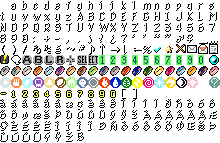
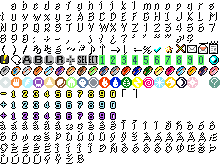
Changed damage change to animation, added heal & xp

diff --git a/PMDMMOc/src/com/darkxell/client/renderers/TextRenderer.java b/PMDMMOc/src/com/darkxell/client/renderers/TextRenderer.java
@@ -181,17 +181,39 @@ public class TextRenderer
 		type_15("<type-15>", 15, 7, 11),
 		type_16("<type-16>", 16, 7, 11),
 		type_17("<type-17>", 17, 7, 11),
-		minusd(null, 0, 8, 7),
-		num1d(null, 1, 8, 7),
-		num2d(null, 2, 8, 7),
-		num3d(null, 3, 8, 7),
-		num4d(null, 4, 8, 7),
-		num5d(null, 5, 8, 7),
-		num6d(null, 6, 8, 7),
-		num7d(null, 7, 8, 7),
-		num8d(null, 8, 8, 7),
-		num9d(null, 9, 8, 7),
-		num0d(null, 10, 8, 7),
+		minusd("<-d>", 0, 8, 7),
+		num1d("<1d>", 1, 8, 7),
+		num2d("<2d>", 2, 8, 7),
+		num3d("<3d>", 3, 8, 7),
+		num4d("<4d>", 4, 8, 7),
+		num5d("<5d>", 5, 8, 7),
+		num6d("<6d>", 6, 8, 7),
+		num7d("<7d>", 7, 8, 7),
+		num8d("<8d>", 8, 8, 7),
+		num9d("<9d>", 9, 8, 7),
+		num0d("<0d>", 10, 8, 7),
+		plush("<+h>", 0, 9, 7),
+		num1h("<1h>", 1, 9, 7),
+		num2h("<2h>", 2, 9, 7),
+		num3h("<3h>", 3, 9, 7),
+		num4h("<4h>", 4, 9, 7),
+		num5h("<5h>", 5, 9, 7),
+		num6h("<6h>", 6, 9, 7),
+		num7h("<7h>", 7, 9, 7),
+		num8h("<8h>", 8, 9, 7),
+		num9h("<9h>", 9, 9, 7),
+		num0h("<0h>", 10, 9, 7),
+		pluse("<+e>", 0, 10, 7),
+		num1e("<1e>", 1, 10, 7),
+		num2e("<2e>", 2, 10, 7),
+		num3e("<3e>", 3, 10, 7),
+		num4e("<4e>", 4, 10, 7),
+		num5e("<5e>", 5, 10, 7),
+		num6e("<6e>", 6, 10, 7),
+		num7e("<7e>", 7, 10, 7),
+		num8e("<8e>", 8, 10, 7),
+		num9e("<9e>", 9, 10, 7),
+		num0e("<0e>", 10, 10, 7),
 		bracketOpen("[", 11, 8, 5),
 		bracketClose("]", 12, 8, 5),
 		colorReset("</color>", -1, -1, 0),
@@ -229,26 +251,60 @@ public class TextRenderer
 
 	}
 
+	public static enum FontMode
+	{
+		NORMAL,
+		EXPERIENCE,
+		DAMAGE,
+		HEAL;
+	}
+
 	private static Color color, previous;
 	private static final HashMap<PMDChar, Image> coloredSprites = new HashMap<>();
-	private static final HashMap<PMDChar, PMDChar> dungeonChars = new HashMap<>();
+	private static final HashMap<PMDChar, PMDChar> expChars = new HashMap<>();
+	private static final HashMap<PMDChar, PMDChar> damageChars = new HashMap<>();
+	private static final HashMap<PMDChar, PMDChar> healChars = new HashMap<>();
 	public static double fontSize = 1;
 	private static final int LINE_SPACING = 3;
 	private static final int TAB_ALIGN = 25;
 
 	static
 	{
-		dungeonChars.put(PMDChar.minus, PMDChar.minusd);
-		dungeonChars.put(PMDChar.num1, PMDChar.num1d);
-		dungeonChars.put(PMDChar.num2, PMDChar.num2d);
-		dungeonChars.put(PMDChar.num3, PMDChar.num3d);
-		dungeonChars.put(PMDChar.num4, PMDChar.num4d);
-		dungeonChars.put(PMDChar.num5, PMDChar.num5d);
-		dungeonChars.put(PMDChar.num6, PMDChar.num6d);
-		dungeonChars.put(PMDChar.num7, PMDChar.num7d);
-		dungeonChars.put(PMDChar.num8, PMDChar.num8d);
-		dungeonChars.put(PMDChar.num9, PMDChar.num9d);
-		dungeonChars.put(PMDChar.num0, PMDChar.num0d);
+		damageChars.put(PMDChar.minus, PMDChar.minusd);
+		damageChars.put(PMDChar.num1, PMDChar.num1d);
+		damageChars.put(PMDChar.num2, PMDChar.num2d);
+		damageChars.put(PMDChar.num3, PMDChar.num3d);
+		damageChars.put(PMDChar.num4, PMDChar.num4d);
+		damageChars.put(PMDChar.num5, PMDChar.num5d);
+		damageChars.put(PMDChar.num6, PMDChar.num6d);
+		damageChars.put(PMDChar.num7, PMDChar.num7d);
+		damageChars.put(PMDChar.num8, PMDChar.num8d);
+		damageChars.put(PMDChar.num9, PMDChar.num9d);
+		damageChars.put(PMDChar.num0, PMDChar.num0d);
+
+		healChars.put(PMDChar.plus, PMDChar.plush);
+		healChars.put(PMDChar.num1, PMDChar.num1h);
+		healChars.put(PMDChar.num2, PMDChar.num2h);
+		healChars.put(PMDChar.num3, PMDChar.num3h);
+		healChars.put(PMDChar.num4, PMDChar.num4h);
+		healChars.put(PMDChar.num5, PMDChar.num5h);
+		healChars.put(PMDChar.num6, PMDChar.num6h);
+		healChars.put(PMDChar.num7, PMDChar.num7h);
+		healChars.put(PMDChar.num8, PMDChar.num8h);
+		healChars.put(PMDChar.num9, PMDChar.num9h);
+		healChars.put(PMDChar.num0, PMDChar.num0h);
+
+		expChars.put(PMDChar.plus, PMDChar.pluse);
+		expChars.put(PMDChar.num1, PMDChar.num1e);
+		expChars.put(PMDChar.num2, PMDChar.num2e);
+		expChars.put(PMDChar.num3, PMDChar.num3e);
+		expChars.put(PMDChar.num4, PMDChar.num4e);
+		expChars.put(PMDChar.num5, PMDChar.num5e);
+		expChars.put(PMDChar.num6, PMDChar.num6e);
+		expChars.put(PMDChar.num7, PMDChar.num7e);
+		expChars.put(PMDChar.num8, PMDChar.num8e);
+		expChars.put(PMDChar.num9, PMDChar.num9e);
+		expChars.put(PMDChar.num0, PMDChar.num0e);
 	}
 
 	private TextRenderer()
@@ -306,7 +362,7 @@ public class TextRenderer
 	}
 
 	/** Renders the input text at the topright x, y coordinates. */
-	public static void render(Graphics2D g, List<PMDChar> text, int x, int y, boolean dungeonHUD)
+	public static void render(Graphics2D g, List<PMDChar> text, int x, int y)
 	{
 		int w = 0;
 		for (PMDChar c : text)
@@ -337,19 +393,38 @@ public class TextRenderer
 
 	public static void render(Graphics2D g, String text, int x, int y)
 	{
-		render(g, text, x, y, false);
+		render(g, text, x, y, FontMode.NORMAL);
 	}
 
 	/** Renders the input text at the topright x, y coordinates. */
-	public static void render(Graphics2D g, String text, int x, int y, boolean dungeonHUD)
+	public static void render(Graphics2D g, String text, int x, int y, FontMode font)
 	{
 		ArrayList<PMDChar> chars = decode(text);
 		ArrayList<PMDChar> toprint = new ArrayList<TextRenderer.PMDChar>();
-		if (dungeonHUD) for (PMDChar c : chars)
-			if (dungeonChars.containsKey(c)) toprint.add(dungeonChars.get(c));
+		HashMap<PMDChar, PMDChar> fontmode = null;
+		switch (font)
+		{
+			case DAMAGE:
+				fontmode = damageChars;
+				break;
+
+			case EXPERIENCE:
+				fontmode = expChars;
+				break;
+
+			case HEAL:
+				fontmode = healChars;
+				break;
+
+			case NORMAL:
+			default:
+				break;
+		}
+		if (fontmode != null) for (PMDChar c : chars)
+			if (fontmode.containsKey(c)) toprint.add(fontmode.get(c));
 			else toprint.add(c);
 		else toprint.addAll(chars);
-		render(g, toprint, x, y, dungeonHUD);
+		render(g, toprint, x, y);
 	}
 
 	/** Sets the Color of the Text for the next drawn Text. Color is reset to default at the end of each Text. */

diff --git a/PMDMMOc/src/com/darkxell/client/mechanics/event/ClientEventProcessor.java b/PMDMMOc/src/com/darkxell/client/mechanics/event/ClientEventProcessor.java
@@ -7,10 +7,12 @@ import com.darkxell.client.launchable.Persistance;
 import com.darkxell.client.mechanics.animation.AbstractAnimation;
 import com.darkxell.client.mechanics.animation.AnimationEndListener;
 import com.darkxell.client.mechanics.animation.Animations;
+import com.darkxell.client.mechanics.animation.misc.NumberAbovePokeAnimation;
 import com.darkxell.client.mechanics.animation.misc.RainAnimation;
 import com.darkxell.client.mechanics.animation.misc.SnowAnimation;
 import com.darkxell.client.mechanics.cutscene.CutsceneManager;
 import com.darkxell.client.renderers.TextRenderer;
+import com.darkxell.client.renderers.TextRenderer.FontMode;
 import com.darkxell.client.renderers.pokemon.DungeonPokemonRenderer;
 import com.darkxell.client.resources.images.pokemon.PokemonSprite;
 import com.darkxell.client.resources.images.pokemon.PokemonSprite.PokemonSpriteState;
@@ -52,12 +54,14 @@ import com.darkxell.common.event.pokemon.StatusConditionCreatedEvent;
 import com.darkxell.common.event.pokemon.StatusConditionEndedEvent;
 import com.darkxell.common.event.pokemon.TriggeredAbilityEvent;
 import com.darkxell.common.event.stats.BellyChangedEvent;
+import com.darkxell.common.event.stats.ExperienceGeneratedEvent;
 import com.darkxell.common.event.stats.LevelupEvent;
 import com.darkxell.common.event.stats.SpeedChangedEvent;
 import com.darkxell.common.event.stats.StatChangedEvent;
 import com.darkxell.common.item.effects.FoodItemEffect;
 import com.darkxell.common.player.Inventory;
 import com.darkxell.common.pokemon.BaseStats;
+import com.darkxell.common.pokemon.DungeonPokemon;
 import com.darkxell.common.pokemon.Pokemon;
 import com.darkxell.common.status.StatusCondition;
 import com.darkxell.common.util.Logger;
@@ -147,6 +151,7 @@ public final class ClientEventProcessor extends CommonEventProcessor
 		if (event instanceof StatChangedEvent) this.processStatEvent((StatChangedEvent) event);
 		if (event instanceof SpeedChangedEvent) this.processSpeedEvent((SpeedChangedEvent) event);
 		if (event instanceof TriggeredAbilityEvent) this.processAbilityEvent((TriggeredAbilityEvent) event);
+		if (event instanceof ExperienceGeneratedEvent) this.processExperienceEvent((ExperienceGeneratedEvent) event);
 		if (event instanceof LevelupEvent) this.processLevelupEvent((LevelupEvent) event);
 		if (event instanceof MoveDiscoveredEvent) this.processMoveDiscoveredEvent((MoveDiscoveredEvent) event);
 		if (event instanceof MoveLearnedEvent) this.processMoveLearnedEvent((MoveLearnedEvent) event);
@@ -234,7 +239,6 @@ public final class ClientEventProcessor extends CommonEventProcessor
 	{
 		if (!(event.source instanceof BellyChangedEvent))
 		{
-			Persistance.dungeonState.pokemonRenderer.getRenderer(event.target).sprite().setHealthChange(-event.damage);
 			AnimationState s = new AnimationState(Persistance.dungeonState);
 			s.animation = Animations.getCustomAnimation(event.target, Animations.HURT, this.currentAnimEnd);
 			if (s.animation != null)
@@ -242,7 +246,14 @@ public final class ClientEventProcessor extends CommonEventProcessor
 				Persistance.dungeonState.setSubstate(s);
 				this.setState(State.ANIMATING);
 			}
+			if (event.damage != 0) new NumberAbovePokeAnimation(event.target, -event.damage, FontMode.DAMAGE).start();
 		}
+	}
+
+	private void processExperienceEvent(ExperienceGeneratedEvent event)
+	{
+		if (event.experience != 0 && event.player == Persistance.player) for (DungeonPokemon p : event.player.getDungeonTeam())
+			if (!p.isFainted()) new NumberAbovePokeAnimation(p, event.experience, FontMode.EXPERIENCE).start();
 	}
 
 	private void processExplorationStopEvent(ExplorationStopEvent event)
@@ -266,7 +277,6 @@ public final class ClientEventProcessor extends CommonEventProcessor
 	private void processHealEvent(HealthRestoredEvent event)
 	{
 		if (event.effectiveHeal() <= 0) return;
-		Persistance.dungeonState.pokemonRenderer.getRenderer(event.target).sprite().setHealthChange(event.effectiveHeal());
 		AnimationState s = new AnimationState(Persistance.dungeonState);
 		s.animation = Animations.getCustomAnimation(event.target, Animations.HEAL, this.currentAnimEnd);
 		if (s.animation != null)
@@ -274,6 +284,7 @@ public final class ClientEventProcessor extends CommonEventProcessor
 			Persistance.dungeonState.setSubstate(s);
 			this.setState(State.ANIMATING);
 		}
+		new NumberAbovePokeAnimation(event.target, event.effectiveHeal(), FontMode.DAMAGE).start();
 	}
 
 	private void processItemEvent(ItemSelectionEvent event)

diff --git a/PMDMMOc/src/com/darkxell/client/resources/images/pokemon/PokemonSprite.java b/PMDMMOc/src/com/darkxell/client/resources/images/pokemon/PokemonSprite.java
@@ -72,7 +72,6 @@ public class PokemonSprite
 	}
 
 	public static final int FRAMELENGTH = 10;
-	public static final int HEALTHLENGTH = 60;
 
 	public static final byte NEUTRAL_SHADOW = 0;
 	public static final byte ALLY_SHADOW = 1;
@@ -87,8 +86,6 @@ public class PokemonSprite
 	private float counter = 0;
 	private PokemonSpriteState defaultState = PokemonSpriteState.IDLE;
 	private Direction facing = Direction.SOUTH;
-	private int healthChange = 0;
-	private int healthCounter = 0;
 	public final AbstractPokemonSpriteset pointer;
 	/** When true, if in a repeatable state, will reset to idle state at the end of the current animation. Else, will keep on the same animation. */
 	private boolean resetToDefaultOnFinish = false;
@@ -116,16 +113,6 @@ public class PokemonSprite
 		return this.facing;
 	}
 
-	public int getHealthChange()
-	{
-		return this.healthChange;
-	}
-
-	public int getHealthPos()
-	{
-		return (HEALTHLENGTH - this.healthCounter) / 4;
-	}
-
 	public byte getShadowColor()
 	{
 		return this.shadowColor;
@@ -144,12 +131,6 @@ public class PokemonSprite
 	public void setFacingDirection(Direction dir)
 	{
 		this.facing = dir;
-	}
-
-	public void setHealthChange(int healthChange)
-	{
-		this.healthChange = healthChange;
-		this.healthCounter = HEALTHLENGTH;
 	}
 
 	public void setShadowColor(byte shadowColor)
@@ -200,12 +181,6 @@ public class PokemonSprite
 		{
 			this.counter = 0;
 			if (this.resetToDefaultOnFinish && this.state != PokemonSpriteState.IDLE) this.setState(this.defaultState);
-		}
-
-		if (this.healthCounter > 0) --this.healthCounter;
-		if (this.healthCounter == 0)
-		{
-			this.healthChange = 0;
 		}
 	}
 

diff --git a/PMDMMOc/src/com/darkxell/client/renderers/pokemon/AbstractPokemonRenderer.java b/PMDMMOc/src/com/darkxell/client/renderers/pokemon/AbstractPokemonRenderer.java
@@ -12,7 +12,6 @@ import com.darkxell.client.mechanics.animation.AbstractAnimation;
 import com.darkxell.client.mechanics.animation.PokemonAnimation;
 import com.darkxell.client.renderers.AbstractRenderer;
 import com.darkxell.client.renderers.MasterDungeonRenderer;
-import com.darkxell.client.renderers.TextRenderer;
 import com.darkxell.client.resources.images.pokemon.PokemonSprite;
 import com.darkxell.client.resources.images.pokemon.PokemonSpriteFrame;
 import com.darkxell.client.resources.images.pokemon.PokemonSpritesets;
@@ -34,15 +33,6 @@ public class AbstractPokemonRenderer extends AbstractRenderer
 		int xPos = x - s.getWidth() / 2 + frame.spriteX, yPos = y - s.getHeight() / 2 + frame.spriteY;
 
 		g.drawImage(s, (frame.isFlipped ? s.getWidth() : 0) + xPos, yPos, (frame.isFlipped ? -1 : 1) * s.getWidth(), s.getHeight(), null);
-
-		int h = sprite.getHealthChange();
-		if (h != 0)
-		{
-			String text = (h < 0 ? "" : "+") + Integer.toString(h);
-			xPos = x - TextRenderer.width(text) / 2;
-			yPos = y - sprite.getHealthPos() - TextRenderer.height() / 2;
-			TextRenderer.render(g, text, xPos, yPos, true);
-		}
 	}
 
 	private final ArrayList<PokemonAnimation> animations = new ArrayList<PokemonAnimation>();

diff --git a/PMDMMOc/src/com/darkxell/client/mechanics/animation/misc/NumberAbovePokeAnimation.java b/PMDMMOc/src/com/darkxell/client/mechanics/animation/misc/NumberAbovePokeAnimation.java
@@ -1,0 +1,39 @@
+package com.darkxell.client.mechanics.animation.misc;
+
+import java.awt.Graphics2D;
+
+import com.darkxell.client.mechanics.animation.PokemonAnimation;
+import com.darkxell.client.renderers.TextRenderer;
+import com.darkxell.client.renderers.TextRenderer.FontMode;
+import com.darkxell.common.pokemon.DungeonPokemon;
+
+public class NumberAbovePokeAnimation extends PokemonAnimation
+{
+
+	public final FontMode fontMode;
+	public final int number;
+
+	public NumberAbovePokeAnimation(DungeonPokemon target, int number, FontMode fontMode)
+	{
+		super(target, 60, null);
+		this.number = number;
+		this.fontMode = fontMode;
+	}
+
+	private double getHealthPos()
+	{
+		return (60 - this.tick()) / 4;
+	}
+
+	@Override
+	public void postrender(Graphics2D g, int width, int height)
+	{
+		super.postrender(g, width, height);
+
+		String text = (this.number < 0 ? "" : "+") + Integer.toString(this.number);
+		int xPos = (int) (this.x - TextRenderer.width(text) / 2);
+		int yPos = (int) (this.y + this.getHealthPos() - this.renderer.sprite().getCurrentSprite().getHeight() / 2 - TextRenderer.height() / 2);
+		TextRenderer.render(g, text, xPos, yPos, this.fontMode);
+	}
+
+}

diff --git a/PMDMMOc/src/com/darkxell/client/state/dialog/DialogScreen.java b/PMDMMOc/src/com/darkxell/client/state/dialog/DialogScreen.java
@@ -128,7 +128,7 @@ public class DialogScreen
 			int x = inside.x;
 			if (this.isCentered) x += inside.getWidth() / 2 - TextRenderer.width(line) / 2;
 
-			TextRenderer.render(g, line, x, inside.y - this.offset + i * (TextRenderer.height() + TextRenderer.lineSpacing()), false);
+			TextRenderer.render(g, line, x, inside.y - this.offset + i * (TextRenderer.height() + TextRenderer.lineSpacing()));
 			length += count;
 		}
 		g.setClip(c);

diff --git a/PMDMMOc/src/com/darkxell/client/state/dialog/NarratorDialogScreen.java b/PMDMMOc/src/com/darkxell/client/state/dialog/NarratorDialogScreen.java
@@ -34,7 +34,7 @@ public class NarratorDialogScreen extends DialogScreen
 		{
 			List<PMDChar> line = this.lines.get(i);
 			int x = width / 2 - TextRenderer.width(line) / 2;
-			TextRenderer.render(g, line, x, y, false);
+			TextRenderer.render(g, line, x, y);
 			y += TextRenderer.height() + TextRenderer.lineSpacing();
 		}
 
